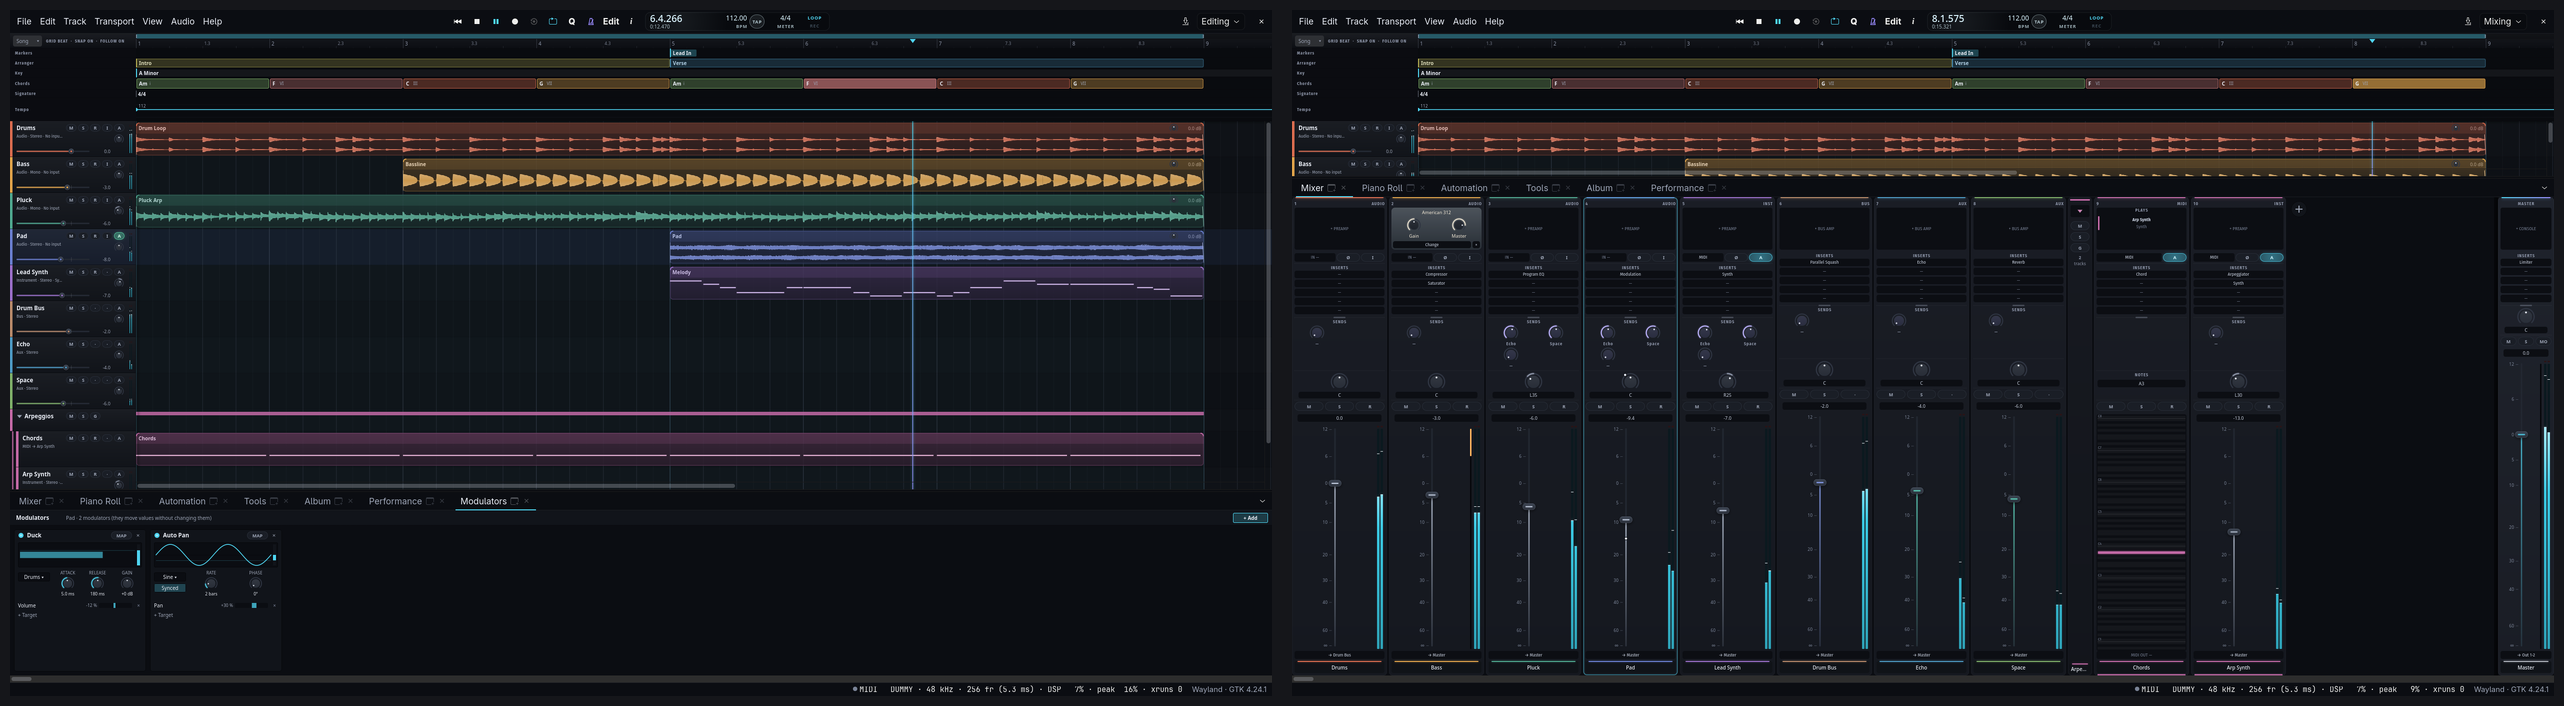
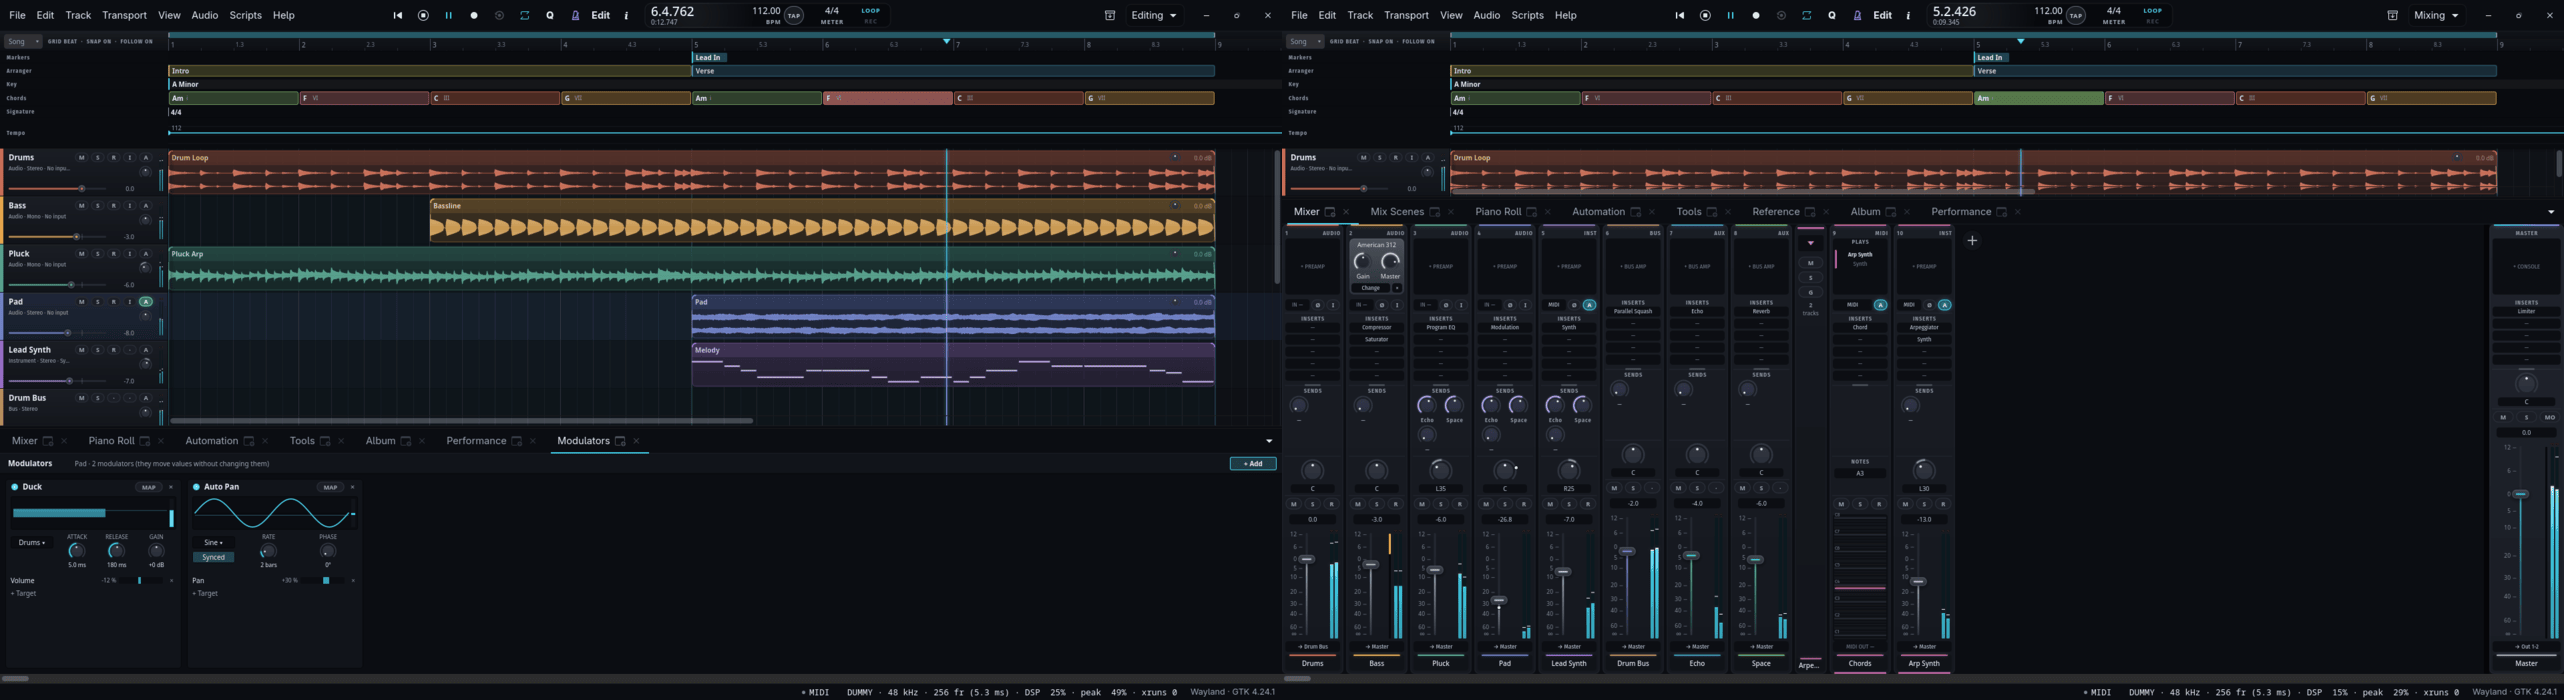
Screenshots of 0.46: the workspaces and the skins, retaken by a script
editing, mixing, piano-roll, mastering, themes and lumen were from
0.23. scripts/screenshots.sh retakes them from the demo session:
FaderFrame in portable mode in a temporary folder (no settings of the
user's read or changed), the dummy device, the window maximized and the
demo playing; the nine skins in a labelled grid and Lumen's Editing and
Mixing side by side, made small with pngquant and oxipng. A `maximize`
startup action (beside `screenshot`) gives the window the monitor's
size. The other screenshots need imported files or hand-made set-ups
and stay as they were.

diff --git a/crates/faderframe-ui/src/actions.rs b/crates/faderframe-ui/src/actions.rs
@@ -96,6 +96,13 @@ pub fn install(app: &Rc<AppState>) {
         entry(app, "restart-audio", |a| a.start_audio()),
         entry(app, "about", crate::dialogs::about),
         entry(app, "varispeed", crate::dialogs::varispeed),
+        // Development aid for scripted runs (screenshots at the monitor's
+        // size): maximize the main window.
+        entry(app, "maximize", |a| {
+            if let Some(w) = a.window.borrow().as_ref() {
+                w.maximize();
+            }
+        }),
         // Development aid: render the main window into the PNG named by
         // $FADERFRAME_SCREENSHOT (the app's own pixels only).
         entry(app, "screenshot", |a| {

diff --git a/docs/SCREENSHOTS.md b/docs/SCREENSHOTS.md
@@ -10,12 +10,12 @@ main set is in the default Studio skin.
 ## Arranging, editing and recording
 
 The Editing workspace: markers, the Intro and Verse sections, the key and
-the chord track above the tracks, the arpeggios in a folder, and in the
-bottom dock the pad's modulators — an envelope follower that ducks it under
+the chord track above the tracks, and in the bottom dock the pad's
+modulators — an envelope follower that ducks it under
 the drums and a synced LFO that moves it across the stereo field. Beside
 the transport are the Q (input quantize) and the "i" (Inspector) buttons:
 
-![Editing workspace with the global lanes, a folder and the Modulators panel](screenshots/editing.png)
+![Editing workspace with the global lanes and the Modulators panel](screenshots/editing.png)
 
 Snap to Objects: the Bassline dragged in Slip mode (where nothing else
 attracts it) lands on the start of the Pad and Melody clips at bar 5; the

diff --git a/README.md b/README.md
@@ -241,6 +241,8 @@ responsibilities and invariants.
 The [changelog](CHANGELOG.md) is generated from the commit history: after
 tagging a release, run `python3 scripts/changelog.py`. The release
 workflow puts the same notes on the GitHub release.
+`scripts/screenshots.sh` retakes the README's screenshots of the demo
+session (the workspaces and the skins), with settings of its own.
 
 ## License
 
